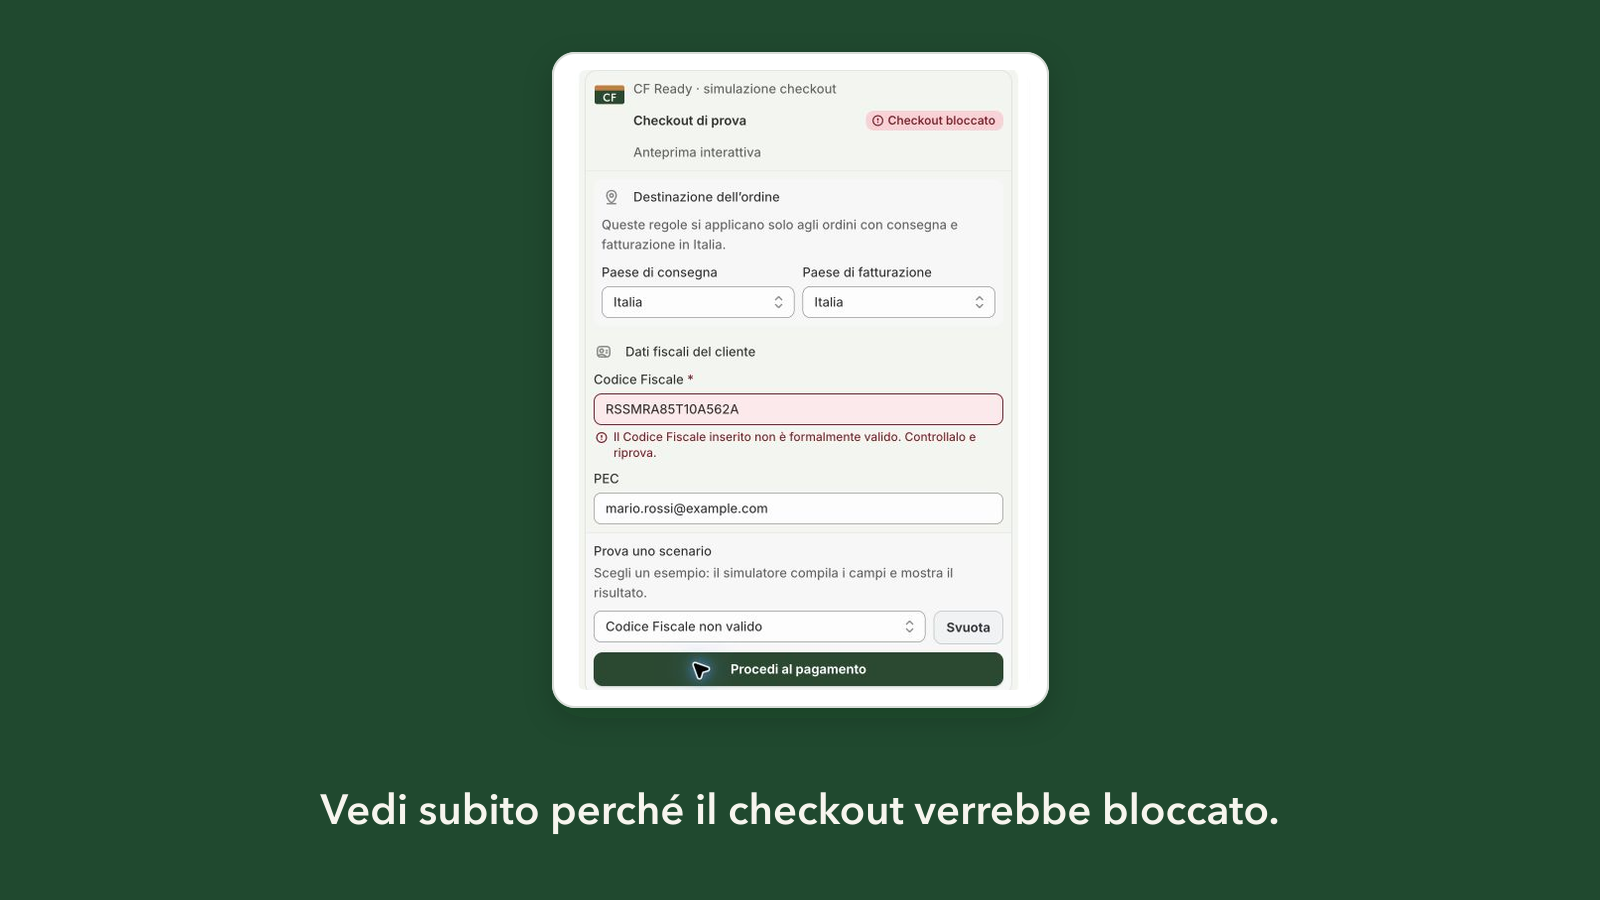
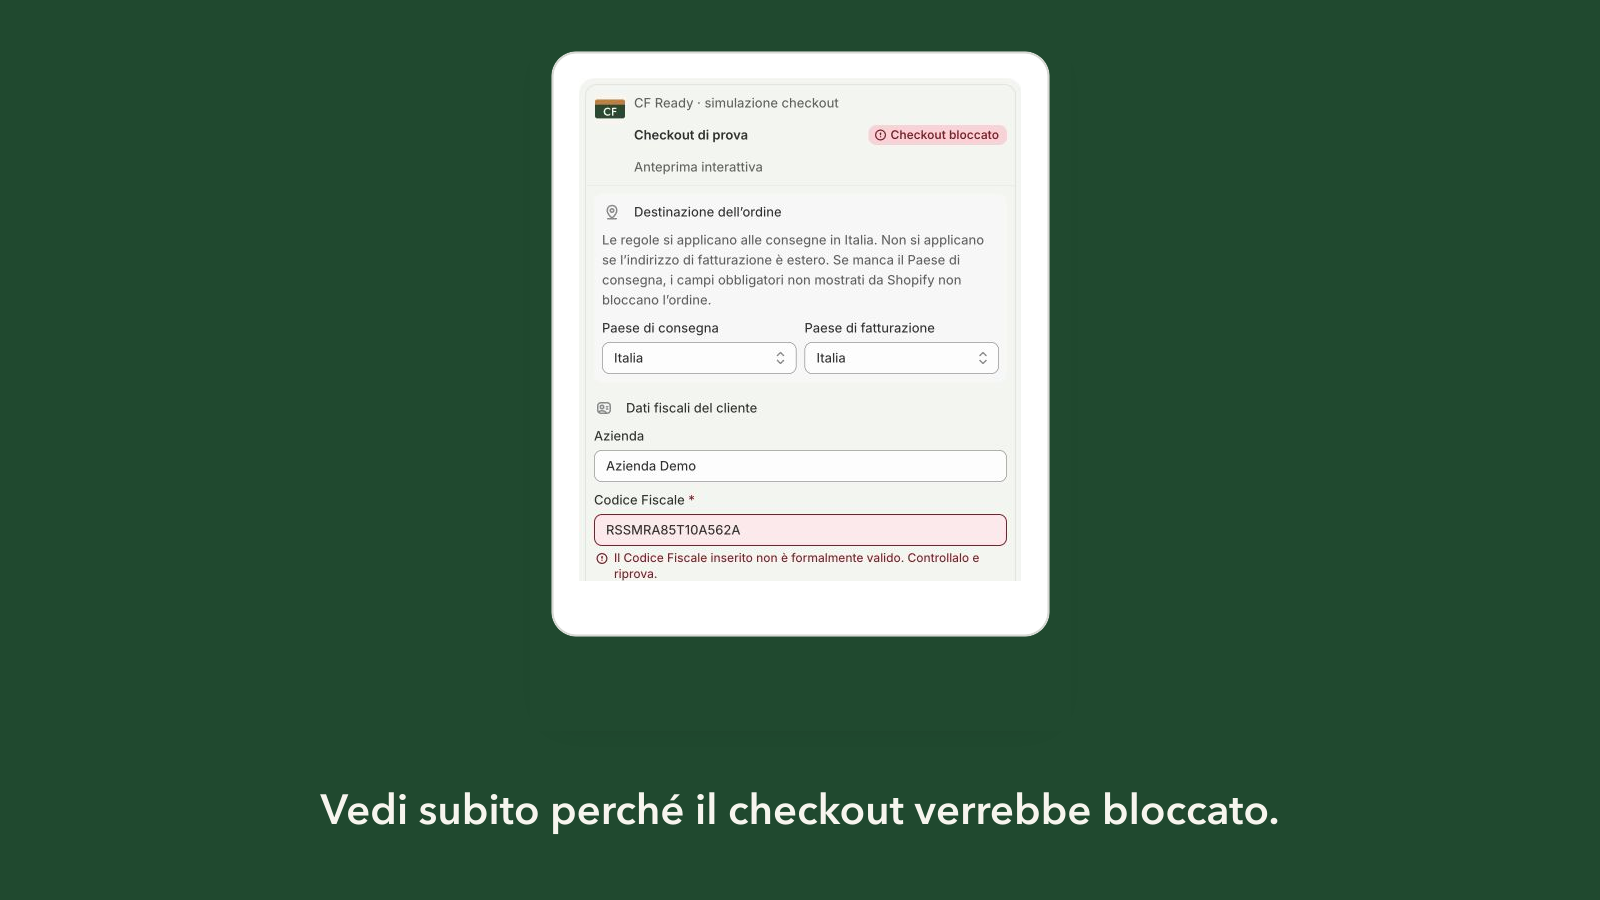
docs: aggiorna la listing per la PEC condizionale

Changed region(s): [[0.3438, 0.0933, 0.6562, 0.8089], [0.5312, 0.1244, 0.625, 0.1867]]

diff --git a/docs/listing/screenshots.md b/docs/listing/screenshots.md
@@ -42,10 +42,10 @@ dentro la stessa serie.
 
 | # | Schermata | Stato da mostrare | Sfondo |
 | --- | --- | --- | --- |
-| 1 | Simulatore | Il campo Codice Fiscale con l'errore formale e lo stato **Checkout bloccato**, ritagliato all'anteprima interattiva della 1.1 | Verde bottiglia |
-| 2 | Regole | Codice Fiscale **obbligatorio** e PEC **facoltativa**, inquadrati sulle due schede indipendenti | Verde bottiglia |
+| 1 | Simulatore | Il campo Azienda, un Codice Fiscale con errore formale e lo stato **Checkout bloccato**, ritagliati dall'anteprima interattiva | Verde bottiglia |
+| 2 | Regole | Codice Fiscale **obbligatorio** e PEC **obbligatoria quando Azienda è compilata**, inquadrati sulle due schede indipendenti | Verde bottiglia |
 | 3 | Messaggi | Testi in italiano e inglese con la nuova anteprima affiancata della 1.1 | Panna |
-| 4 | Home | Controllo **attivo**, con stato delle regole, piano e accesso alla guida visibili | Panna |
+| 4 | Home | Controllo **attivo**, con la nuova regola PEC legata ad Azienda, piano e accesso alla guida visibili | Panna |
 | 5 | Guida | FAQ e azioni di assistenza con diagnostica tecnica copiabile, in due ritagli affiancati e completi | Panna |
 
 Sul numero 1: è il simulatore reale incluso nell'app, non un checkout né una
@@ -57,13 +57,13 @@ di listing ed evita che entrino nell'immagine elementi dell'Admin Shopify.
 La didascalia visibile è in italiano. La listing inglese usa gli stessi file e
 descrive ogni immagine con un alt text inglese coerente.
 
-| # | Didascalia visibile | Alt text inglese |
-| --- | --- | --- |
-| 1 | Vedi subito perché il checkout verrebbe bloccato. | In-app simulator with a formally invalid Codice Fiscale. |
-| 2 | Scegli regole separate per Codice Fiscale e PEC. | Separate controls for Codice Fiscale and PEC. |
-| 3 | Personalizza i messaggi in italiano e inglese. | Italian and English checkout message previews. |
-| 4 | Attiva il controllo solo quando sei pronto. | Home with active checkout control, rules and plan. |
-| 5 | Guida e diagnostica pronte quando serve assistenza. | FAQs, support actions and privacy-safe diagnostics. |
+| # | Didascalia visibile | Alt text italiano | Alt text inglese |
+| --- | --- | --- | --- |
+| 1 | Vedi subito perché il checkout verrebbe bloccato. | Simulatore con Codice Fiscale non valido e checkout bloccato. | In-app simulator with a formally invalid Codice Fiscale. |
+| 2 | Scegli regole separate per Codice Fiscale e PEC. | Regole separate per Codice Fiscale e PEC legata ad Azienda. | Separate Codice Fiscale and PEC rules, with PEC tied to Company. |
+| 3 | Personalizza i messaggi in italiano e inglese. | Messaggi checkout personalizzati in italiano e inglese. | Italian and English checkout message previews. |
+| 4 | Attiva il controllo solo quando sei pronto. | Home con controllo attivo, regole, piano e guida. | Home with active checkout control, rules, plan and guide. |
+| 5 | Guida e diagnostica pronte quando serve assistenza. | FAQ, richiesta assistenza e diagnostica copiabile. | FAQs, support request and copyable diagnostics. |
 
 ## Consegna
 
@@ -80,8 +80,11 @@ e inglese:
 Git conserva quindi sia il piano e gli alt text sia gli asset approvati; il
 Partner Dashboard resta autorevole per la serie effettivamente visibile. Il
 readback live del 29 agosto 2026 ha verificato feature media, cinque screenshot
-desktop e alt text nelle due lingue. La ricevuta storica della serie precedente
-è nel [`release-readiness-1.0`](../runbooks/release-readiness-1.0.md).
+desktop e alt text nelle due lingue. Il 9 settembre 2026 le schermate 1, 2 e 4
+sono state ricatturate dall'app Development per mostrare il campo Azienda e la
+nuova modalità PEC; le schermate 3 e 5 sono rimaste attuali. La ricevuta storica
+della serie precedente è nel
+[`release-readiness-1.0`](../runbooks/release-readiness-1.0.md).
 
 ## Sito pubblico
 

diff --git a/docs/listing/listing-it.md b/docs/listing/listing-it.md
@@ -23,7 +23,7 @@ checkout.
 
 | Campo | Valore |
 | --- | --- |
-| Nome app | CF Ready \| Codice Fiscale |
+| Nome app | CF Ready \| Codice Fiscale, PEC |
 | Nome breve in Admin | CF Ready |
 | Handle | `cf-ready` |
 | Categoria primaria | Gestione del negozio → Finanze → Imposte |
@@ -34,7 +34,7 @@ checkout.
 
 L'alt text della feature image è richiesto insieme all'immagine:
 
-> CF Ready | Codice Fiscale nel checkout
+> CF Ready | Codice Fiscale e PEC nel checkout
 
 Descrive quello che si vede, non quello che vorremmo far capire: un alt text che
 ripete lo slogan è inutile a chi non vede l'immagine.
@@ -47,21 +47,22 @@ ripete lo slogan è inutile a chi non vede l'immagine.
 
 ## Introduzione
 
-> Evita ordini senza un Codice Fiscale formalmente valido. Configuri tutto senza
-> complessità.
+> Mai più ordini senza Codice Fiscale: raccoglilo subito e semplifica la
+> fatturazione elettronica.
 
-**91/100 caratteri.**
+**96/100 caratteri.**
 
 ## Dettagli app
 
-> Evita ordini italiani senza un Codice Fiscale formalmente valido. Configura
-> separatamente Codice Fiscale e PEC; la PEC può diventare obbligatoria quando
-> il cliente compila Azienda. CF Ready usa i campi nativi del checkout: provi le
-> regole prima di attivarle, senza codice né Shopify Plus. I controlli valgono
-> solo per l’Italia. I dati fiscali non arrivano ai nostri sistemi e, se l’app ha
-> un errore, il checkout resta aperto. La verifica è formale, non anagrafica.
+> Evita ordini italiani con Codice Fiscale mancante o non valido. Scegli per
+> Codice Fiscale e PEC se non gestirli, renderli facoltativi o obbligatori; puoi
+> richiedere la PEC quando il cliente compila Azienda. CF Ready usa i campi
+> nativi del checkout: configuri e provi le regole prima di attivarle, senza
+> codice né Shopify Plus. I controlli valgono solo per l’Italia. I dati fiscali
+> non arrivano ai nostri sistemi e, se l’app ha errori, il checkout resta aperto.
+> La verifica è formale, non anagrafica.
 
-**464/500 caratteri.**
+**499/500 caratteri.**
 
 ## Punti in evidenza
 
@@ -76,9 +77,9 @@ ripete lo slogan è inutile a chi non vede l'immagine.
 - termini di ricerca: `Codice Fiscale`, `PEC`, `Checkout`, `Checkout italiano`,
   `CF obbligatorio`;
 - title tag: `CF Ready | Codice Fiscale obbligatorio nel checkout`;
-- meta description: `Codice Fiscale obbligatorio nel checkout italiano, senza
-  complessità. Regole indipendenti per CF e PEC, nessun dato fiscale nei nostri
-  sistemi.`
+- meta description: `Rende il Codice Fiscale obbligatorio nel checkout, senza
+  complessità. Regole indipendenti per CF e PEC, nessuna modifica ai temi,
+  nessun piano Plus richiesto.`
 
 ## Canali e limitazioni dichiarate
 

diff --git a/docs/listing/listing-en.md b/docs/listing/listing-en.md
@@ -22,7 +22,7 @@ for amounts, `extensions/cf-ready-validation/` for checkout behaviour.
 
 | Field | Value |
 | --- | --- |
-| App name | CF Ready \| Codice Fiscale |
+| App name | CF Ready \| Codice Fiscale, PEC |
 | Short name in Admin | CF Ready |
 | Handle | `cf-ready` |
 | Primary category | Store management → Finances → Taxes |
@@ -33,7 +33,7 @@ for amounts, `extensions/cf-ready-validation/` for checkout behaviour.
 
 The feature image needs alt text alongside it:
 
-> CF Ready | Codice Fiscale (Italian tax code) at checkout
+> CF Ready | Codice Fiscale and PEC at checkout
 
 It describes what is visible, not what we would like the reader to conclude: alt
 text that repeats the tagline is useless to someone who cannot see the image.
@@ -46,21 +46,22 @@ text that repeats the tagline is useless to someone who cannot see the image.
 
 ## Introduction
 
-> Prevent orders without a formally valid Codice Fiscale. Set everything up
-> without complexity.
+> No more orders without a Codice Fiscale: collect it upfront and simplify
+> e-invoicing.
 
-**93/100 characters.**
+**85/100 characters.**
 
 ## App details
 
-> Prevent Italian orders without a formally valid Codice Fiscale. Configure
-> Codice Fiscale and PEC separately; PEC can become required when the customer
-> fills in Company. CF Ready uses Shopify's native checkout fields: preview rules
-> before activation, with no code or Shopify Plus. Checks apply only to Italy.
-> Tax data never reaches our systems and, if the app fails, checkout stays open.
+> Prevent Italian orders with missing or invalid Codice Fiscale. For Codice
+> Fiscale and PEC, choose whether to leave them unmanaged, make them optional or
+> required; you can require PEC when the customer fills in Company. CF Ready
+> uses Shopify's native checkout fields: configure and preview rules before
+> activation, with no code or Shopify Plus. Checks apply only to Italy. Tax data
+> never reaches our systems and, if the app fails, checkout stays open.
 > Validation is formal, not identity-based.
 
-**428/500 characters.**
+**492/500 characters.**
 
 ## Key features
 
@@ -144,7 +145,7 @@ must state the same figure.
 
 | Item | URL |
 | --- | --- |
-| Support | `https://cf-ready.pages.dev/en/support` (English support, localized override) |
+| Support | `https://cf-ready.pages.dev/support` (shared from the primary listing) |
 | Developer website | `https://cf-ready.pages.dev/en/` |
 | Privacy | `https://cf-ready.pages.dev/en/privacy` |
 | Terms | `https://cf-ready.pages.dev/en/terms` |
